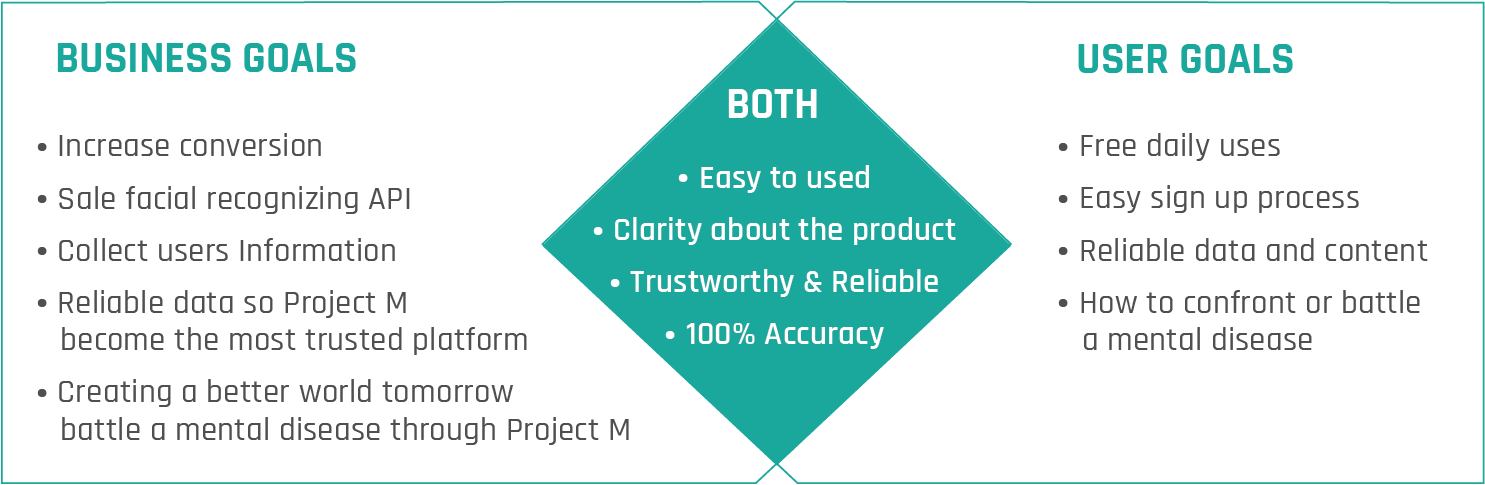
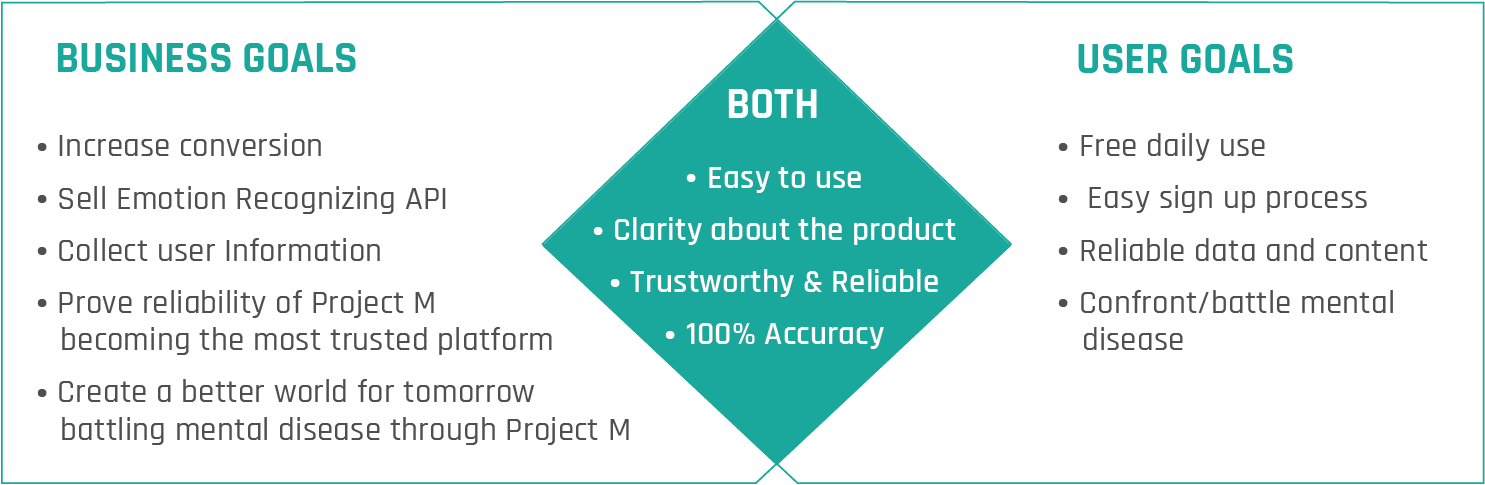
update fonts

diff --git a/static/css/project-m.css b/static/css/project-m.css
@@ -208,7 +208,7 @@ main > .project-m  {
 
 .project-m .logic p {
 	margin: 30px auto;
-	font-size: 16px;
+	font-size: 18px;
 }
 
 .project-m .logic .image {
@@ -259,6 +259,7 @@ main > .project-m  {
 .project-m .sub-header {
 	color: #00a69c;
 	font-weight: 700;
+	font-size: 22px;
 }
 
 .creative-process-mobile {
@@ -638,7 +639,7 @@ main > .project-m  {
 }
 
 .project-m > p {
-	/* font-size: 18px; */
+	font-size: 18px; 
 	line-height: 30px;
 	letter-spacing: 0.02em;
 	/* padding: 26px 0px 26px 20px; */

diff --git a/static/css/style.css b/static/css/style.css
@@ -326,13 +326,18 @@ margin-bottom: 10px;
 
 .project .sub-title {
 font-size: 24px;
-font-weight: 500;
+font-weight: 300;
 margin-bottom: 40px;
+font-family: Open Sans;
 }
 
+/*Cover categories*/
+/*-----------------------------*/
 .project .categories {
-font-weight: 700;
+/*font-family: Open Sans;*/
+font-weight: 600;
 margin-top: 20px;
+line-height: 25px;
 }
 
 
